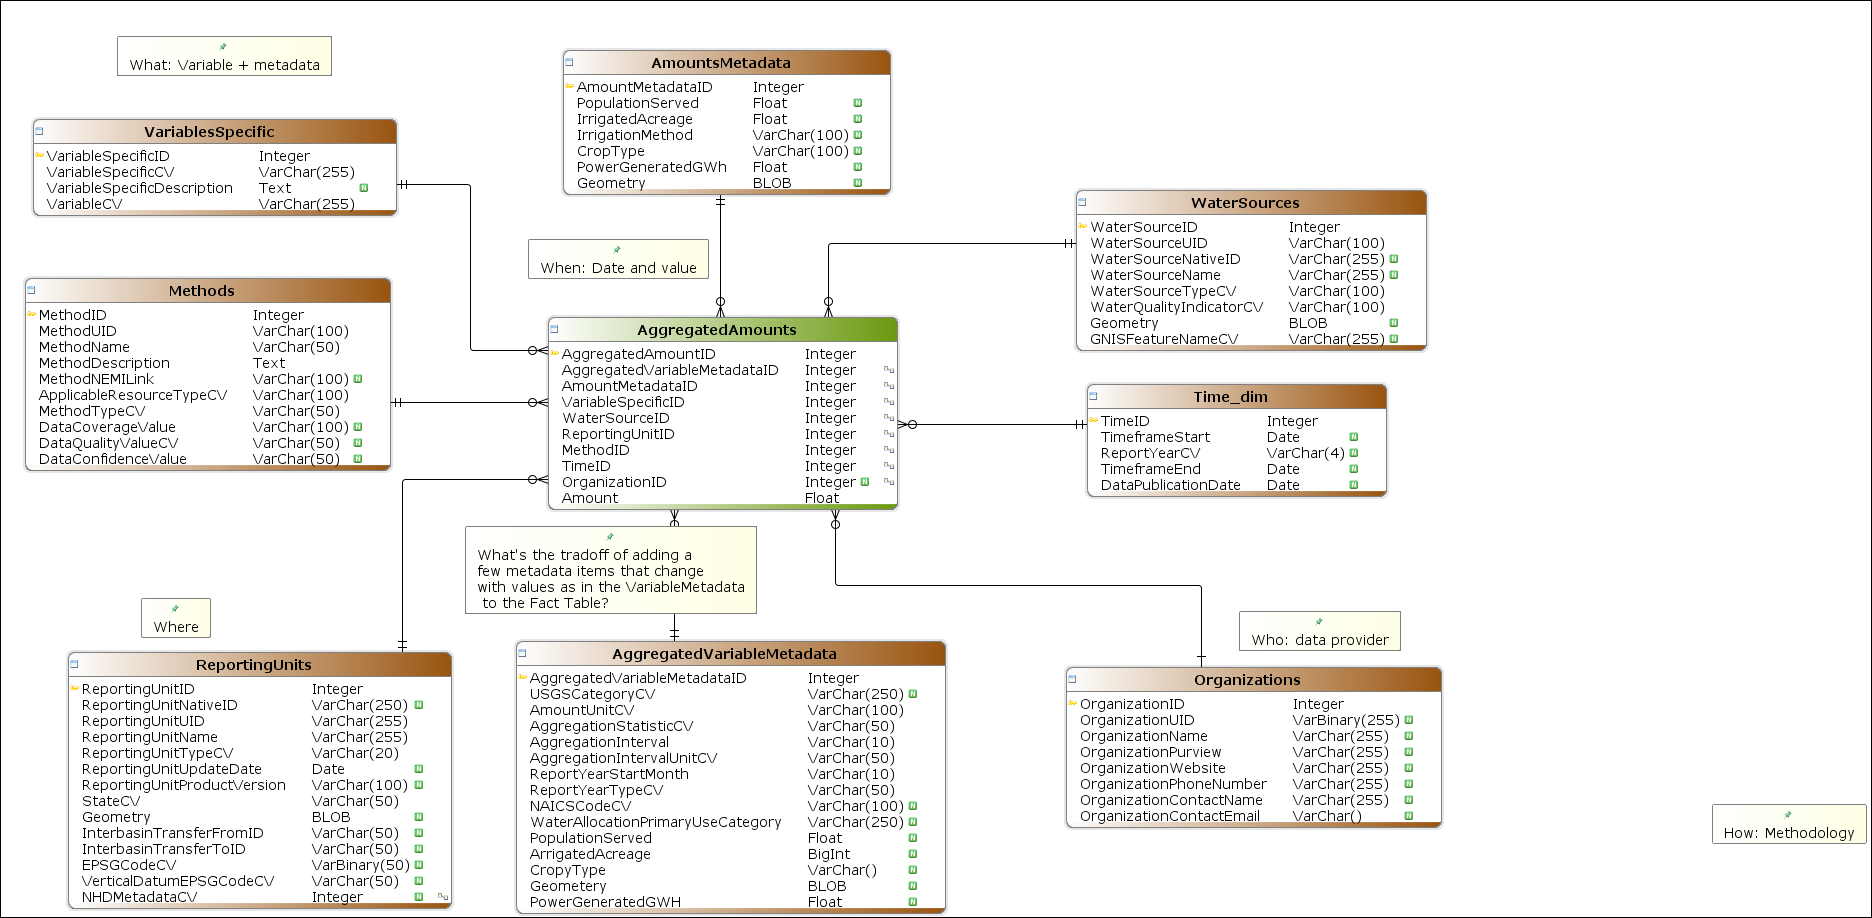
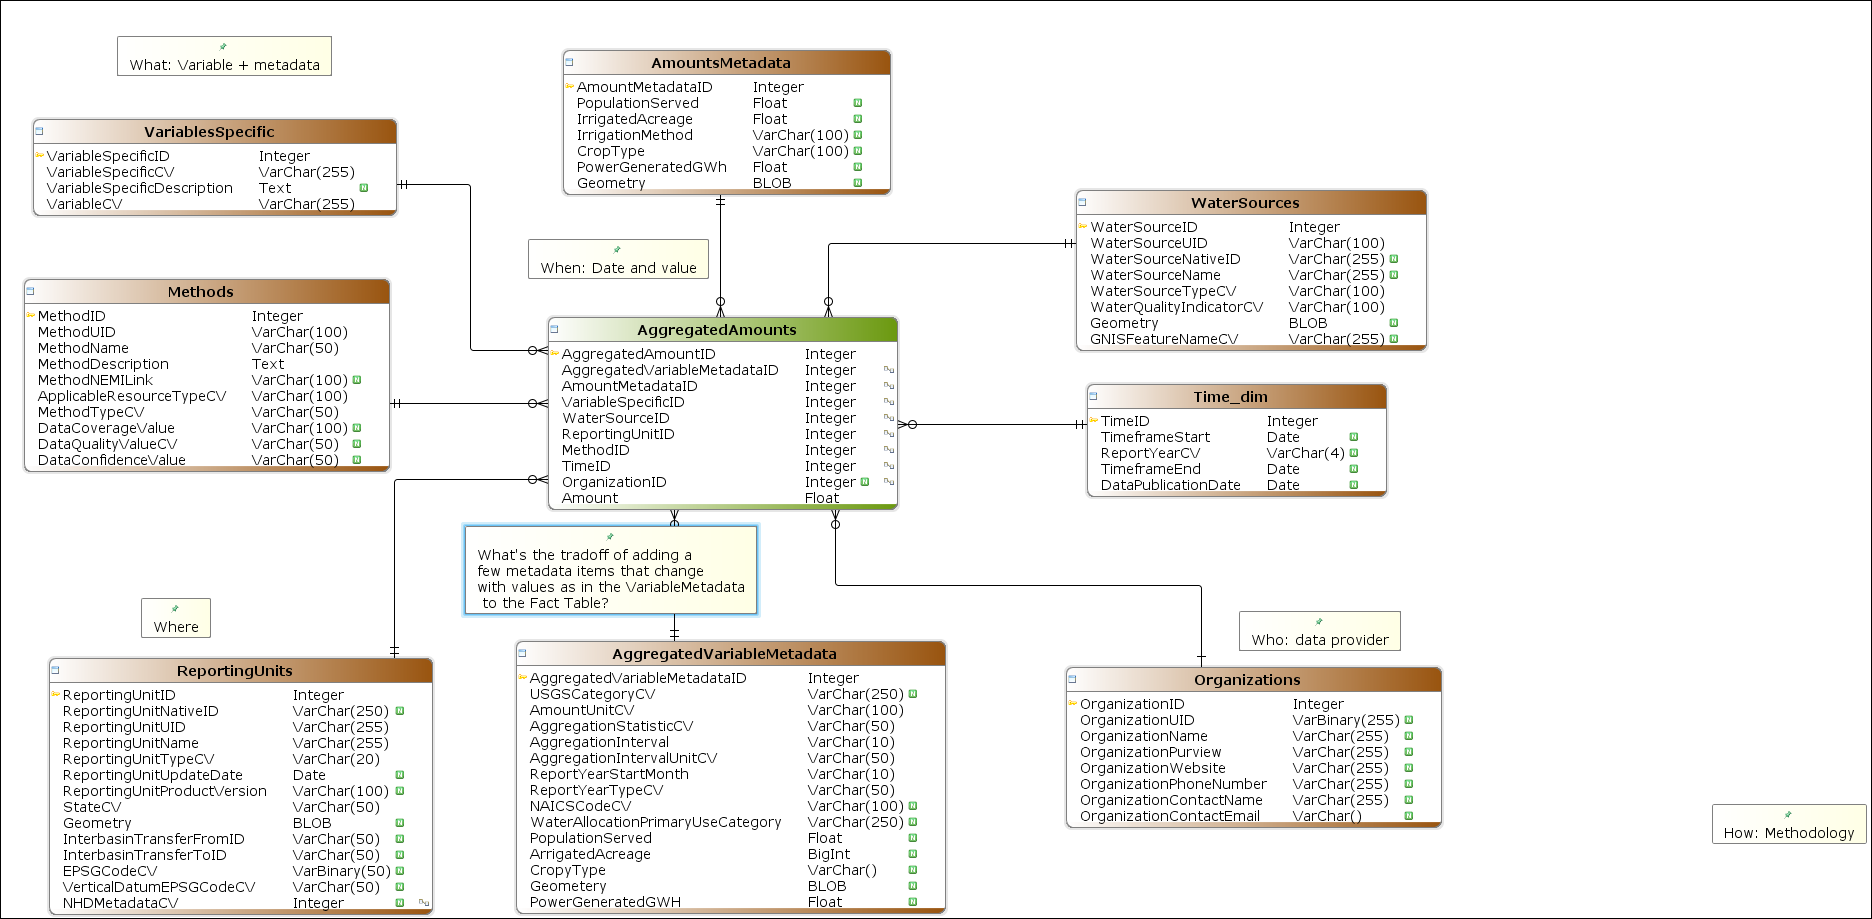
remove old diagrams

diff --git a/docs/diagrams/Star_Aggregated.html b/docs/diagrams/Star_Aggregated.html
@@ -14,8 +14,8 @@
 <h1>Diagram: Star_Aggregated</h1>
 <br>
 <map id="imgmap" name="imgmap">
-<area coords="68, 652, 451, 908" href="../tables/WaDE2_star_ReportingUnits.html" shape="rect">
-<area coords="25, 278, 390, 470" href="../tables/WaDE2_star_Methods.html" shape="rect">
+<area coords="49, 658, 432, 914" href="../tables/WaDE2_star_ReportingUnits.html" shape="rect">
+<area coords="24, 279, 389, 471" href="../tables/WaDE2_star_Methods.html" shape="rect">
 <area coords="516, 641, 945, 913" href="../tables/WaDE2_star_AggregatedVariableMetadata.html" shape="rect">
 <area coords="1076, 190, 1426, 350" href="../tables/WaDE2_star_WaterSources.html" shape="rect">
 <area coords="33, 119, 396, 215" href="../tables/WaDE2_star_VariablesSpecific.html" shape="rect">

diff --git a/docs/diagrams/index.html b/docs/diagrams/index.html
@@ -15,24 +15,6 @@
 <table class="flat"></table>
 <table class="flat">
 <tr>
-<td class="header"><a href="../diagrams/1_Aggregated.html">1_Aggregated</a></td>
-</tr>
-<tr>
-<td class="diagramThumb"><a href="../diagrams/1_Aggregated.html"><img height="290" src="../diagrams/1_Aggregated.png" width="500"></a></td>
-</tr>
-</table>
-<br>
-<table class="flat">
-<tr>
-<td class="header"><a href="../diagrams/2_Site_Specific.html">2_Site_Specific</a></td>
-</tr>
-<tr>
-<td class="diagramThumb"><a href="../diagrams/2_Site_Specific.html"><img height="289" src="../diagrams/2_Site_Specific.png" width="500"></a></td>
-</tr>
-</table>
-<br>
-<table class="flat">
-<tr>
 <td class="header"><a href="../diagrams/3_CVs.html">3_CVs</a></td>
 </tr>
 <tr>

diff --git a/docs/index.html b/docs/index.html
@@ -20,7 +20,7 @@
 <td class=""><a href="tables/index.html">Tables</a></td><td class="">38</td>
 </tr>
 <tr>
-<td class=""><a href="diagrams/index.html">Diagrams</a></td><td class="">7</td>
+<td class=""><a href="diagrams/index.html">Diagrams</a></td><td class="">5</td>
 </tr>
 <tr>
 <td class=""><a href="schemas/index.html">Schemas</a></td><td class="">1</td>
@@ -51,7 +51,7 @@
 <div class="paragraph">
 <p>
 <b>Documented with DbWrench  </b>
-<k>24 Jan 2019 - 04:28:47 PM</k>
+<k>24 Jan 2019 - 04:36:19 PM</k>
 </p>
 </div>
 </body>

diff --git a/docs/tables/WaDE2_star_NHDMetadata.html b/docs/tables/WaDE2_star_NHDMetadata.html
@@ -71,16 +71,8 @@
 </div>
 <br>
 <h2>Used in Diagrams</h2>
-<table class="flat">
-<tr>
-<td class="header">Diagram Name</td>
-</tr>
-<tr>
-<td><a href="../diagrams/1_Aggregated.html">1_Aggregated</a></td>
-</tr>
-<tr>
-<td><a href="../diagrams/2_Site_Specific.html">2_Site_Specific</a></td>
-</tr>
-</table>
+<div class="paragraph">
+<p>(none)</p>
+</div>
 </body>
 </HTML>

diff --git a/docs/tables/WaDE2_star_Sites.html b/docs/tables/WaDE2_star_Sites.html
@@ -125,9 +125,6 @@ DMS - with six significant figures. Seconds to 100ths of a second.</td><td> </td
 <td class="header">Diagram Name</td>
 </tr>
 <tr>
-<td><a href="../diagrams/2_Site_Specific.html">2_Site_Specific</a></td>
-</tr>
-<tr>
 <td><a href="../diagrams/Star_SiteSpecific.html">Star_SiteSpecific</a></td>
 </tr>
 <tr>

diff --git a/docs/tables/WaDE2_star_AmountsMetadata.html b/docs/tables/WaDE2_star_AmountsMetadata.html
@@ -85,12 +85,6 @@
 <td class="header">Diagram Name</td>
 </tr>
 <tr>
-<td><a href="../diagrams/1_Aggregated.html">1_Aggregated</a></td>
-</tr>
-<tr>
-<td><a href="../diagrams/2_Site_Specific.html">2_Site_Specific</a></td>
-</tr>
-<tr>
 <td><a href="../diagrams/Star_Aggregated.html">Star_Aggregated</a></td>
 </tr>
 </table>

diff --git a/docs/tables/WaDE2_star_Methods.html b/docs/tables/WaDE2_star_Methods.html
@@ -88,12 +88,6 @@
 <td class="header">Diagram Name</td>
 </tr>
 <tr>
-<td><a href="../diagrams/1_Aggregated.html">1_Aggregated</a></td>
-</tr>
-<tr>
-<td><a href="../diagrams/2_Site_Specific.html">2_Site_Specific</a></td>
-</tr>
-<tr>
 <td><a href="../diagrams/Star_Aggregated.html">Star_Aggregated</a></td>
 </tr>
 <tr>

diff --git a/docs/tables/WaDE2_star_VariablesSpecific.html b/docs/tables/WaDE2_star_VariablesSpecific.html
@@ -61,12 +61,6 @@
 <td class="header">Diagram Name</td>
 </tr>
 <tr>
-<td><a href="../diagrams/1_Aggregated.html">1_Aggregated</a></td>
-</tr>
-<tr>
-<td><a href="../diagrams/2_Site_Specific.html">2_Site_Specific</a></td>
-</tr>
-<tr>
 <td><a href="../diagrams/Star_Aggregated.html">Star_Aggregated</a></td>
 </tr>
 <tr>

diff --git a/docs/tables/WaDE2_star_WaterSources.html b/docs/tables/WaDE2_star_WaterSources.html
@@ -82,12 +82,6 @@
 <td class="header">Diagram Name</td>
 </tr>
 <tr>
-<td><a href="../diagrams/1_Aggregated.html">1_Aggregated</a></td>
-</tr>
-<tr>
-<td><a href="../diagrams/2_Site_Specific.html">2_Site_Specific</a></td>
-</tr>
-<tr>
 <td><a href="../diagrams/Star_Aggregated.html">Star_Aggregated</a></td>
 </tr>
 <tr>

diff --git a/docs/tables/WaDE2_star_WaterAllocationAmountYears.html b/docs/tables/WaDE2_star_WaterAllocationAmountYears.html
@@ -61,13 +61,8 @@
 </div>
 <br>
 <h2>Used in Diagrams</h2>
-<table class="flat">
-<tr>
-<td class="header">Diagram Name</td>
-</tr>
-<tr>
-<td><a href="../diagrams/2_Site_Specific.html">2_Site_Specific</a></td>
-</tr>
-</table>
+<div class="paragraph">
+<p>(none)</p>
+</div>
 </body>
 </HTML>

diff --git a/docs/tables/WaDE2_star_WaterAllocationAmounts.html b/docs/tables/WaDE2_star_WaterAllocationAmounts.html
@@ -138,9 +138,6 @@
 <td class="header">Diagram Name</td>
 </tr>
 <tr>
-<td><a href="../diagrams/2_Site_Specific.html">2_Site_Specific</a></td>
-</tr>
-<tr>
 <td><a href="../diagrams/Star_WaterAllocation.html">Star_WaterAllocation</a></td>
 </tr>
 </table>

diff --git a/docs/tables/WaDE2_star_SiteVariableAmounts.html b/docs/tables/WaDE2_star_SiteVariableAmounts.html
@@ -126,9 +126,6 @@
 <td class="header">Diagram Name</td>
 </tr>
 <tr>
-<td><a href="../diagrams/2_Site_Specific.html">2_Site_Specific</a></td>
-</tr>
-<tr>
 <td><a href="../diagrams/Star_SiteSpecific.html">Star_SiteSpecific</a></td>
 </tr>
 </table>
